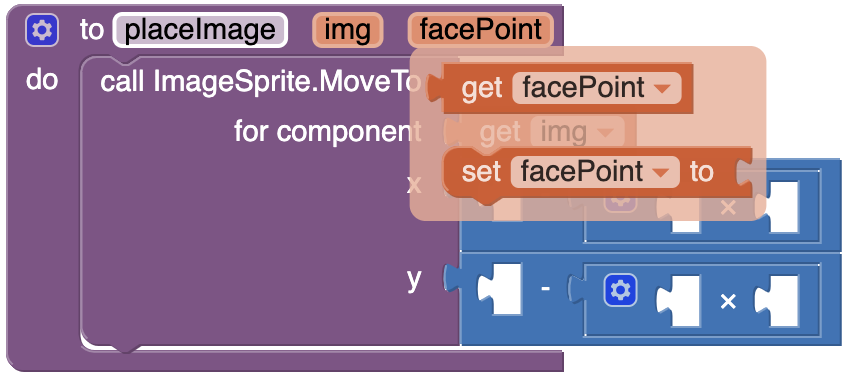
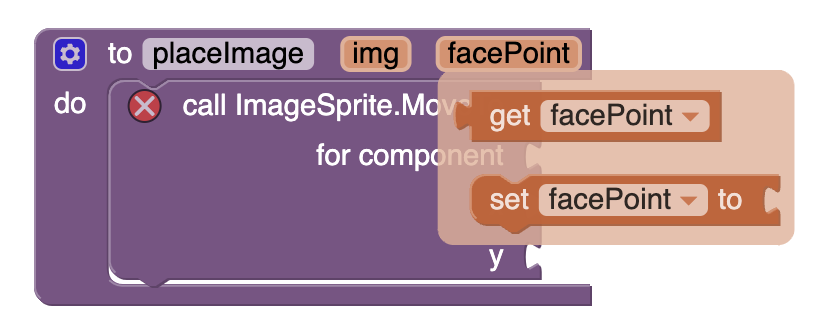
updates according to new image center feature

diff --git a/yr/tutorials/facemesh_OLD.md b/yr/tutorials/facemesh_OLD.md
@@ -128,15 +128,6 @@ Once you’ve finished setting <em>Picture</em> for all three of the <strong>lef
 
 ![Whiskers complete](../images/facemesh/4.choose_p3.png){:.enlargeImage}
 
-## Setting the Origin of the Image components
-
-In the finished app, the left ear, right ear and whisker images need to stay on their respective facial positions as the user moves around or turns their head etc.  In order to be able to do this we need to paste the <em>centers</em> of our images to their appropriate facial landmarks.  To do this we need to set their <em>OriginX</em> and <em>OriginY</em> properties to 0.5.  This will ensure that the <em>centers</em> of the images get pasted rather than their top left corners which is what the default values of 0 for <em>OriginX</em> and <em>OriginY</em> would do.  So for all three image components <strong>leftEar</strong>, <strong>rightEar</strong>, and <strong>whiskers</strong>, set their origin x and y coordinates as shown below.
-
-![Image components](../images/facemesh/ImageComponents.png){:.enlargeImage}
-
-![Setting Image origins](../images/facemesh/ImageMarkOrigin.png){:.enlargeImage}
-
-
 ## Preliminary GUI Code
 You are also given some code that makes the buttons work as expected. Check out the code blocks so you can have a general idea what they do.
 
@@ -161,7 +152,7 @@ Now we need to write some code to place the three ImageSprites (leftEar, rightEa
 
 Your first coding task is to fill in this helper function called <span class="procedures">placeImage</span>. 
 
-![Incomplete placeImage procedure](../images/facemesh/Procedure-placeImage1.png){:.enlargeImage}
+![Incomplete placeImage procedure](../images/facemesh/placeImageIncomplete.png){:.enlargeImage}
 
 <span class="procedures">placeImage</span> procedure places the center of <span class="variables">img</span>, the <strong>ImageSprite</strong>, on the <span class="variables">facePoint</span>, the key point tracked by Facemesh. 
 
@@ -169,48 +160,61 @@ Click "Next Step" for guidance on how to fill in this procedure and move the thr
 
 ## Placing the ears and whiskers
 
-By calling <span class="procedures">ImageSprite.MoveTo</span> (x, y), we move the ImageSprite’s <strong>center</strong> to (x, y). 
+By calling <span class="procedures">ImageSprite.MoveTo</span> (x, y), we move the ImageSprite’s <strong>top-left corner</strong> to (x, y). 
 
+However, if we want the <strong>center</strong> of <span class="variables">img</span> to be placed on the <span class="variables">facePoint</span> (x<sub>f</sub>, y<sub>f</sub>), we have to do some simple math to get the coordinates of its top-left corner, which we will call (x<sub>c</sub>, y<sub>c</sub>).
 
 Note that in this x-y coordinate system of the <strong>Canvas</strong>, (0, 0) is the top left corner. The difference from the normal Cartesian coordinate system is that y increases downwards.
 
-![Center paste](../images/facemesh/ImageCenterPlacement.png){:.enlargeImage}
+![Coordinate Math](../images/facemesh/6.helper.png){:.enlargeImage}
 
-In the scenario above, you want to place the left ear centered on the left forehead <span class="variables">facePoint</span> (x, y) returned by Facemesh.
+In the scenario above, you want to place the left ear centered on the left forehead <span class="variables">facePoint</span> (x<sub>f</sub>, y<sub>f</sub>) returned by Facemesh.
+* To get the adjusted horizontal placement
+	* <strong>x<sub>c</sub> = x<sub>f</sub> - 0.5 * image width</strong>
+* To get the adjusted vertical placement
+	* <strong>y<sub>c</sub> = y<sub>f</sub> - 0.5 * image height</strong>
 
-When we call <span class="procedures">ImageSprite.MoveTo</span> (x,y), the image is centered on (x,y), which are the coordinates of the <span class="variables">facePoint</span>.
+When we call <span class="procedures">ImageSprite.MoveTo</span> (x<sub>c</sub>, y<sub>c</sub>), the image is centered on (x<sub>f</sub>, y<sub>f</sub>), which are the coordinates of the <span class="variables">facePoint</span>.
  
 ## Fill in the procedure
 
 In the <span class="procedures">placeImage</span> procedure, your task is to
-* Fill in the <span class="procedures">x</span> argument of the <span class="procedures">ImageSprite.MoveTo</span> block to be the facePoint’s x-coordinate.
+* Fill in the <span class="procedures">x</span> argument of the <span class="procedures">ImageSprite.MoveTo</span> block to be <strong>x<sub>f</sub> - 0.5 * image width</strong>. This is the result of subtracting half of the ImageSprite’s width from the facePoint’s x-coordinate.
 <br>
 <br>
-* Fill in the <span class="procedures">y</span> argument of the <span class="procedures">ImageSprite.MoveTo</span> block to be the facePoint’s y-coordinate.
+* Fill in the <span class="procedures">y</span> argument of the <span class="procedures">ImageSprite.MoveTo</span> block to be <strong>y<sub>f</sub> - 0.5 * image height</strong>. This is the result of subtracting half of the ImageSprite’s height from the facePoint’s y-coordinate.
 
-Click on the questions below for more help on how to complete the procedure.
-
-
-<hint markdown="block" title="How do I get img and facePoint?">
+Don’t worry if this is a handful right now. Click on the questions below for more help on how to complete the procedure.
+<hint markdown="block" title="How do I get the height/width of img?">
+To get the height/width of the image, you use the following blocks..
+![Get imageSprite height](../images/facemesh/placeImageHint1.png){:.enlargeImage}
+![Get imageSprite width](../images/facemesh/placeImageHint2.png){:.enlargeImage}
+To access these ImageSprite blocks shown above, click “Any component” in the Blocks menu. This will open the drop-down menu to show the following. Then click “Any ImageSprite” and you’ll find the blocks there.
+![Any Component Blocks](../images/facemesh/anyComponent.png){:.enlargeImage}
+</hint>
+<hint markdown="block" title="How do I get the number 0.5?">
+Click on the “Math” option in the Blocks, and you’ll find the number 0. You can drag this number onto the Viewer and double click on the 0 to erase the old value and insert your new value.
+![Get 0.5](../images/facemesh/getNum.png){:.enlargeImage}
+</hint>
+<hint markdown="block" title="How do I get facePoint and img?">
 Hover your mouse over “img” for about a second in the placeImage procedure, and the following will pop up. You can then drag “get img”.
 ![Get img](../images/facemesh/getImg.png){:.enlargeImage}
 Hover your mouse over “facePoint” for about a second in the placeImage procedure, and the following will pop up. You can then drag “get facePoint”.
 ![Get Facepoint](../images/facemesh/getFacepoint.png){:.enlargeImage}
 </hint>
-
 <hint markdown="block" title="How do I get the x, y coords of facePoint?">
 As mentioned earlier, each <strong>facePoint</strong> is a list of 2 items. The x-coordinate is at index 1 and the y-coordinate is at index 2.
-* To get x, use the following block that gets the item at index 1 from the facePoint list.
+* To get x<sub>f</sub>, use the following block that gets the item at index 1 from the facePoint list.
 ![Get facepoint index 1](../images/facemesh/getFacepoint1.png){:.enlargeImage}
-* To get y, use the following block that gets the item at index 2 from the facePoint list.
+* To get y<sub>f</sub>, use the following block that gets the item at index 2 from the facePoint list.
 ![Get facepoint index 2](../images/facemesh/getFacepoint2.png){:.enlargeImage}
 </hint>
 
 If you are stuck, feel free to see which blocks are needed 
 <hint markdown="block" title="Show Hint">
-![placeImage incomplete block](../images/facemesh/Hint-placeImage.png){:.enlargeImage} 
+![placeImage incomplete block](../images/facemesh/placeImageHint.png){:.enlargeImage} 
 <hint markdown="block" title="Check my solution">
-![placeImage procedure solution](../images/facemesh/Procedure-placeImage.png){:.enlargeImage}
+![placeImage procedure solution](../images/facemesh/placeImageSolution.png){:.enlargeImage}
 </hint>
 </hint> 
 <br>
